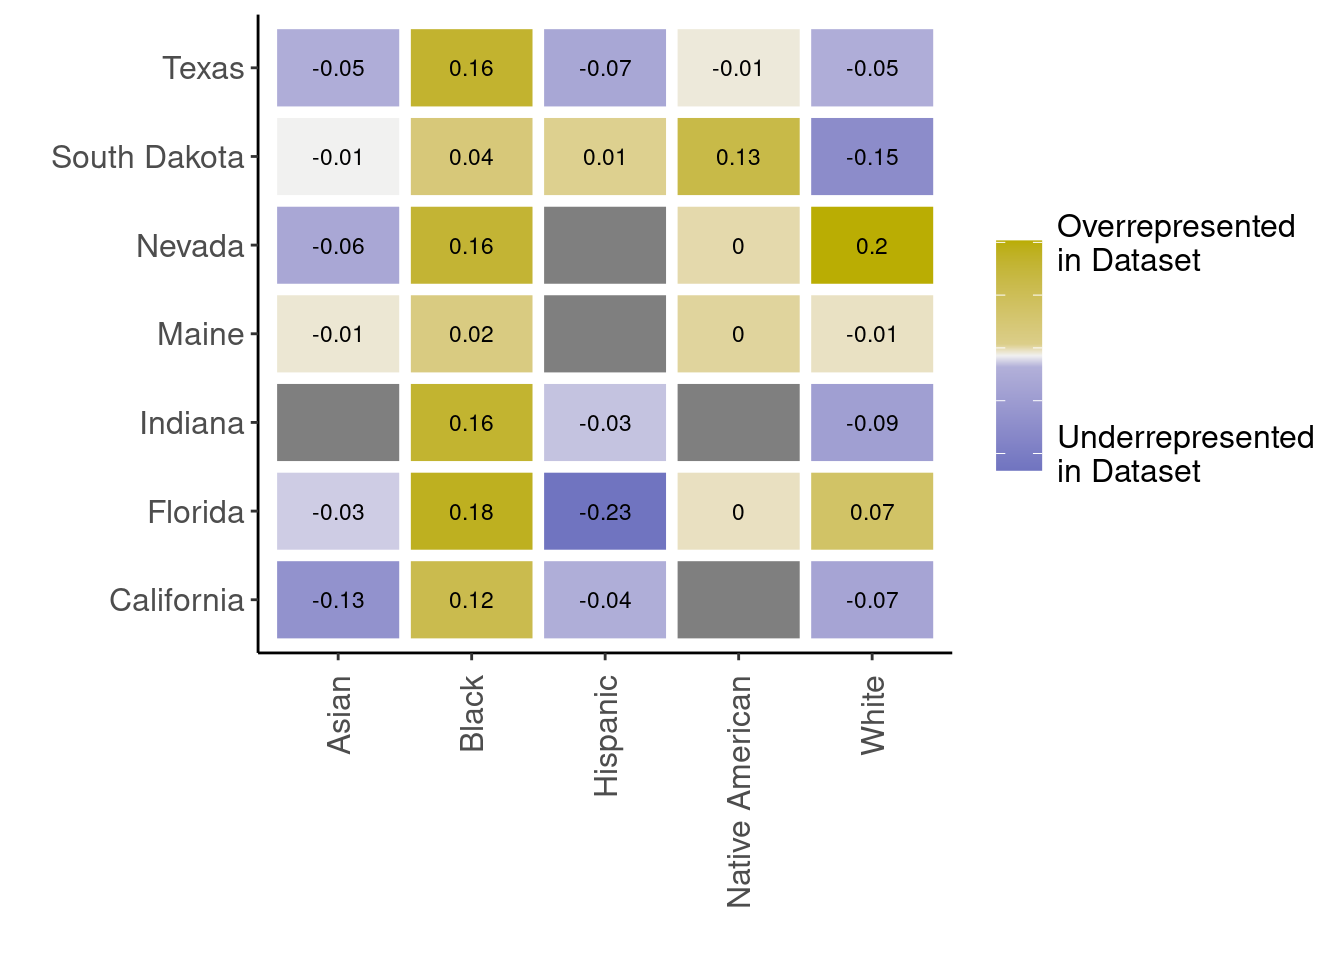
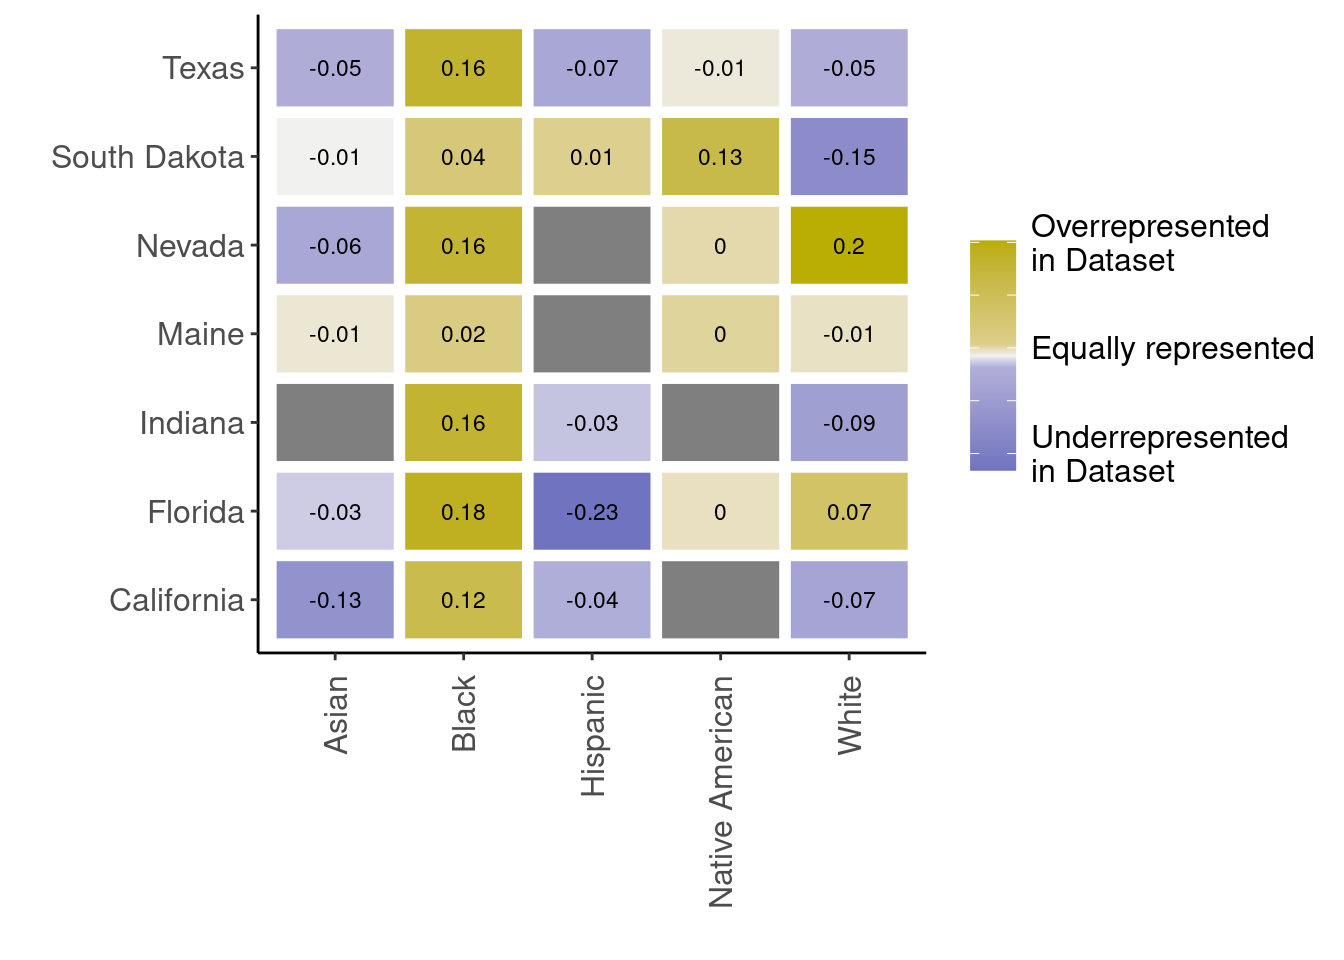
Build site.

diff --git a/docs/tasks.html b/docs/tasks.html
@@ -515,16 +515,16 @@ data/df_flavor.csv
 <div class="panel panel-default">
 <div class="panel-heading">
 <p class="panel-title">
-<a data-toggle="collapse" data-parent="#workflowr-checks" href="#strongRepositoryversionstrongahrefhttpsgithubcomhcvwinterviewtree54e5c55377d6009877beae9145e5b5ac1f4b3cd9targetblank54e5c55a"> <span class="glyphicon glyphicon-ok text-success" aria-hidden="true"></span> <strong>Repository version:</strong> <a href="https://github.com/hcvw/interview/tree/54e5c55377d6009877beae9145e5b5ac1f4b3cd9" target="_blank">54e5c55</a> </a>
+<a data-toggle="collapse" data-parent="#workflowr-checks" href="#strongRepositoryversionstrongahrefhttpsgithubcomhcvwinterviewtree101a18a10614359db37aa789cb126aa91f6f4251targetblank101a18aa"> <span class="glyphicon glyphicon-ok text-success" aria-hidden="true"></span> <strong>Repository version:</strong> <a href="https://github.com/hcvw/interview/tree/101a18a10614359db37aa789cb126aa91f6f4251" target="_blank">101a18a</a> </a>
 </p>
 </div>
[2 lines of base64/hex data omitted]
 <div class="panel-body">
 <p>
 Great! You are using Git for version control. Tracking code development and connecting the code version to the results is critical for reproducibility.
 </p>
 <p>
-The results in this page were generated with repository version <a href="https://github.com/hcvw/interview/tree/54e5c55377d6009877beae9145e5b5ac1f4b3cd9" target="_blank">54e5c55</a>. See the <em>Past versions</em> tab to see a history of the changes made to the R Markdown and HTML files.
+The results in this page were generated with repository version <a href="https://github.com/hcvw/interview/tree/101a18a10614359db37aa789cb126aa91f6f4251" target="_blank">101a18a</a>. See the <em>Past versions</em> tab to see a history of the changes made to the R Markdown and HTML files.
 </p>
 <p>
 Note that you need to be careful to ensure that all relevant files for the analysis have been committed to Git prior to generating the results (you can use <code>wflow_publish</code> or <code>wflow_git_commit</code>). workflowr only checks the R Markdown file, but you know if there are other scripts or data files that it depends on. Below is the status of the Git repository when the results were generated:
@@ -572,6 +572,40 @@ Message
 </tr>
 </thead>
 <tbody>
+<tr>
+<td>
+Rmd
+</td>
+<td>
+<a href="https://github.com/hcvw/interview/blob/101a18a10614359db37aa789cb126aa91f6f4251/analysis/tasks.rmd" target="_blank">101a18a</a>
+</td>
+<td>
+Hannah Van Wyk
+</td>
+<td>
+2024-03-02
+</td>
+<td>
+Start my new project
+</td>
+</tr>
+<tr>
+<td>
+html
+</td>
+<td>
+<a href="https://rawcdn.githack.com/hcvw/interview/7b991754c07f5607afc8188df88019768d4007af/docs/tasks.html" target="_blank">7b99175</a>
+</td>
+<td>
+Hannah Van Wyk
+</td>
+<td>
+2024-03-02
+</td>
+<td>
+Build site.
+</td>
+</tr>
 <tr>
 <td>
 Rmd
@@ -1672,7 +1706,7 @@ merged_data &lt;- database_data %&gt;%
   geom_text(aes(label = round(Difference, 2)),size=3) +
   scale_fill_gradientn(colours = c(&quot;#7074c0&quot;, &quot;#f1f1f1&quot;, &quot;#baad03&quot;),
                       values = scales::rescale(c(-0.5, -0.05, 0, 0.05, 0.5)),
-                      labels = c(&quot;Underrepresented\nin Dataset&quot;,&quot;&quot;,&quot;&quot;,&quot;&quot;,&quot;Overrepresented\nin Dataset&quot;)) +
+                      labels = c(&quot;Underrepresented\nin Dataset&quot;,&quot;&quot;,&quot;Equally represented&quot;,&quot;&quot;,&quot;Overrepresented\nin Dataset&quot;)) +
   theme_classic() +
   scale_x_discrete(guide = guide_axis(angle = 90)) +
   labs(fill=&#39;&#39;) +
@@ -1701,6 +1735,17 @@ Date
 </tr>
 </thead>
 <tbody>
+<tr>
+<td>
+<a href="https://github.com/hcvw/interview/blob/7b991754c07f5607afc8188df88019768d4007af/docs/figure/tasks.rmd/cars-plot-1.png" target="_blank">7b99175</a>
+</td>
+<td>
+Hannah Van Wyk
+</td>
+<td>
+2024-03-02
+</td>
+</tr>
 <tr>
 <td>
 <a href="https://github.com/hcvw/interview/blob/dd0975b048924772321b5a2a68e71e13e3406a4d/docs/figure/tasks.rmd/cars-plot-1.png" target="_blank">dd0975b</a>
@@ -1943,7 +1988,7 @@ for (flavor in unique(flavor_long$Attribute)) {
 }</code></pre>
 <pre class="r"><code>print(xtable(results),include.rownames=FALSE, type = &quot;html&quot;)</code></pre>
 <!-- html table generated in R 4.3.1 by xtable 1.8-4 package -->
-<!-- Sat Mar  2 14:44:08 2024 -->
+<!-- Sat Mar  2 14:44:41 2024 -->
 <table border="1">
 <tr>
 <th>
